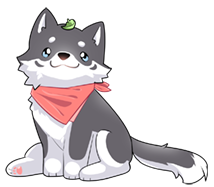
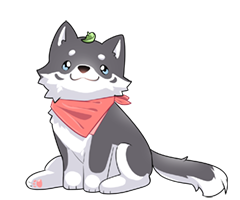
docs, mascots page on hover wave

Changed region(s): [[0.028, 0.0267, 0.9813, 0.9893]]

diff --git a/docs/assets/js/script.js b/docs/assets/js/script.js
@@ -36,3 +36,11 @@ mascotFilter = function(filter) {
 			break;
 	}
 }
+
+function mascotHover(mascot) {
+	document.getElementById("m_" + mascot).getElementsByTagName('img')[0].setAttribute('src', mascot + '-wave.png');
+}
+
+function mascotUnhover(mascot) {
+	document.getElementById("m_" + mascot).getElementsByTagName('img')[0].setAttribute('src', mascot + '.png');
+}

diff --git a/docs/mascots.md b/docs/mascots.md
@@ -17,7 +17,7 @@ tags:
 <div>
 <div id="f_humanoid"><span class="caption">HUMAN, HUMANOID</span>
 {% for mascot in site.mascots_human %}
-<div class="list_m" id="m_{{ mascot.anchor }}">
+<div class="list_m" id="m_{{ mascot.anchor }}" onmouseover="mascotHover('{{ mascot.anchor }}')" onmouseout="mascotUnhover('{{ mascot.anchor }}')">
 	<div><img src="{{ site.github.url }}/assets/images/mascots/{{ mascot.anchor }}.png"></div>
 	<div>
 		<div>{{ mascot.name }}</div>
@@ -48,7 +48,7 @@ tags:
 </div>
 <div id="f_animal"><span class="caption">ANIMAL, CREATURE</span>
 {% for mascot in site.mascots_animal %}
-<div class="list_m" id="m_{{ mascot.anchor }}">
+<div class="list_m" id="m_{{ mascot.anchor }}" onmouseover="mascotHover('{{ mascot.anchor }}')" onmouseout="mascotUnhover('{{ mascot.anchor }}')">
 	<div><img src="{{ site.github.url }}/assets/images/mascots/{{ mascot.anchor }}.png"></div>
 	<div>
 		<div>{{ mascot.name }}</div>
